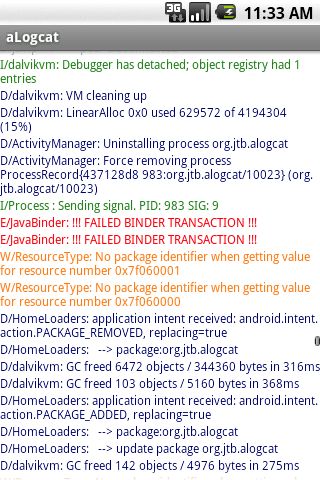
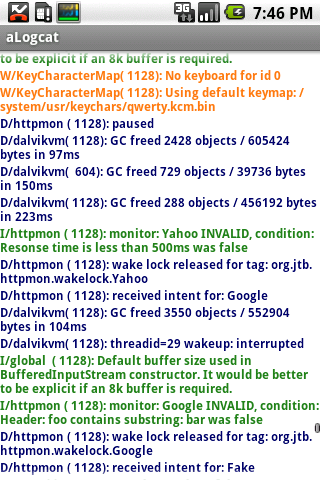
git-svn-id: http://alogcat.googlecode.com/svn/trunk@11 5ece13ba-dd74-11de-b357-fb893c5a43fa

diff --git a/src/org/jtb/alogcat/LogActivity.java b/src/org/jtb/alogcat/LogActivity.java
@@ -7,6 +7,7 @@ import android.app.Activity;
 import android.app.AlertDialog;
 import android.app.Dialog;
 import android.content.Intent;
+import android.graphics.Typeface;
 import android.os.Bundle;
 import android.os.Handler;
 import android.os.Message;
@@ -108,6 +109,7 @@ public class LogActivity extends Activity {
 		}
 		entryText.setTextColor(level.getColor());
 		entryText.setTextSize(mTextsize.getValue());
+		entryText.setTypeface(Typeface.DEFAULT_BOLD);
 		mCatLayout.addView(entryText);
 
 	}
